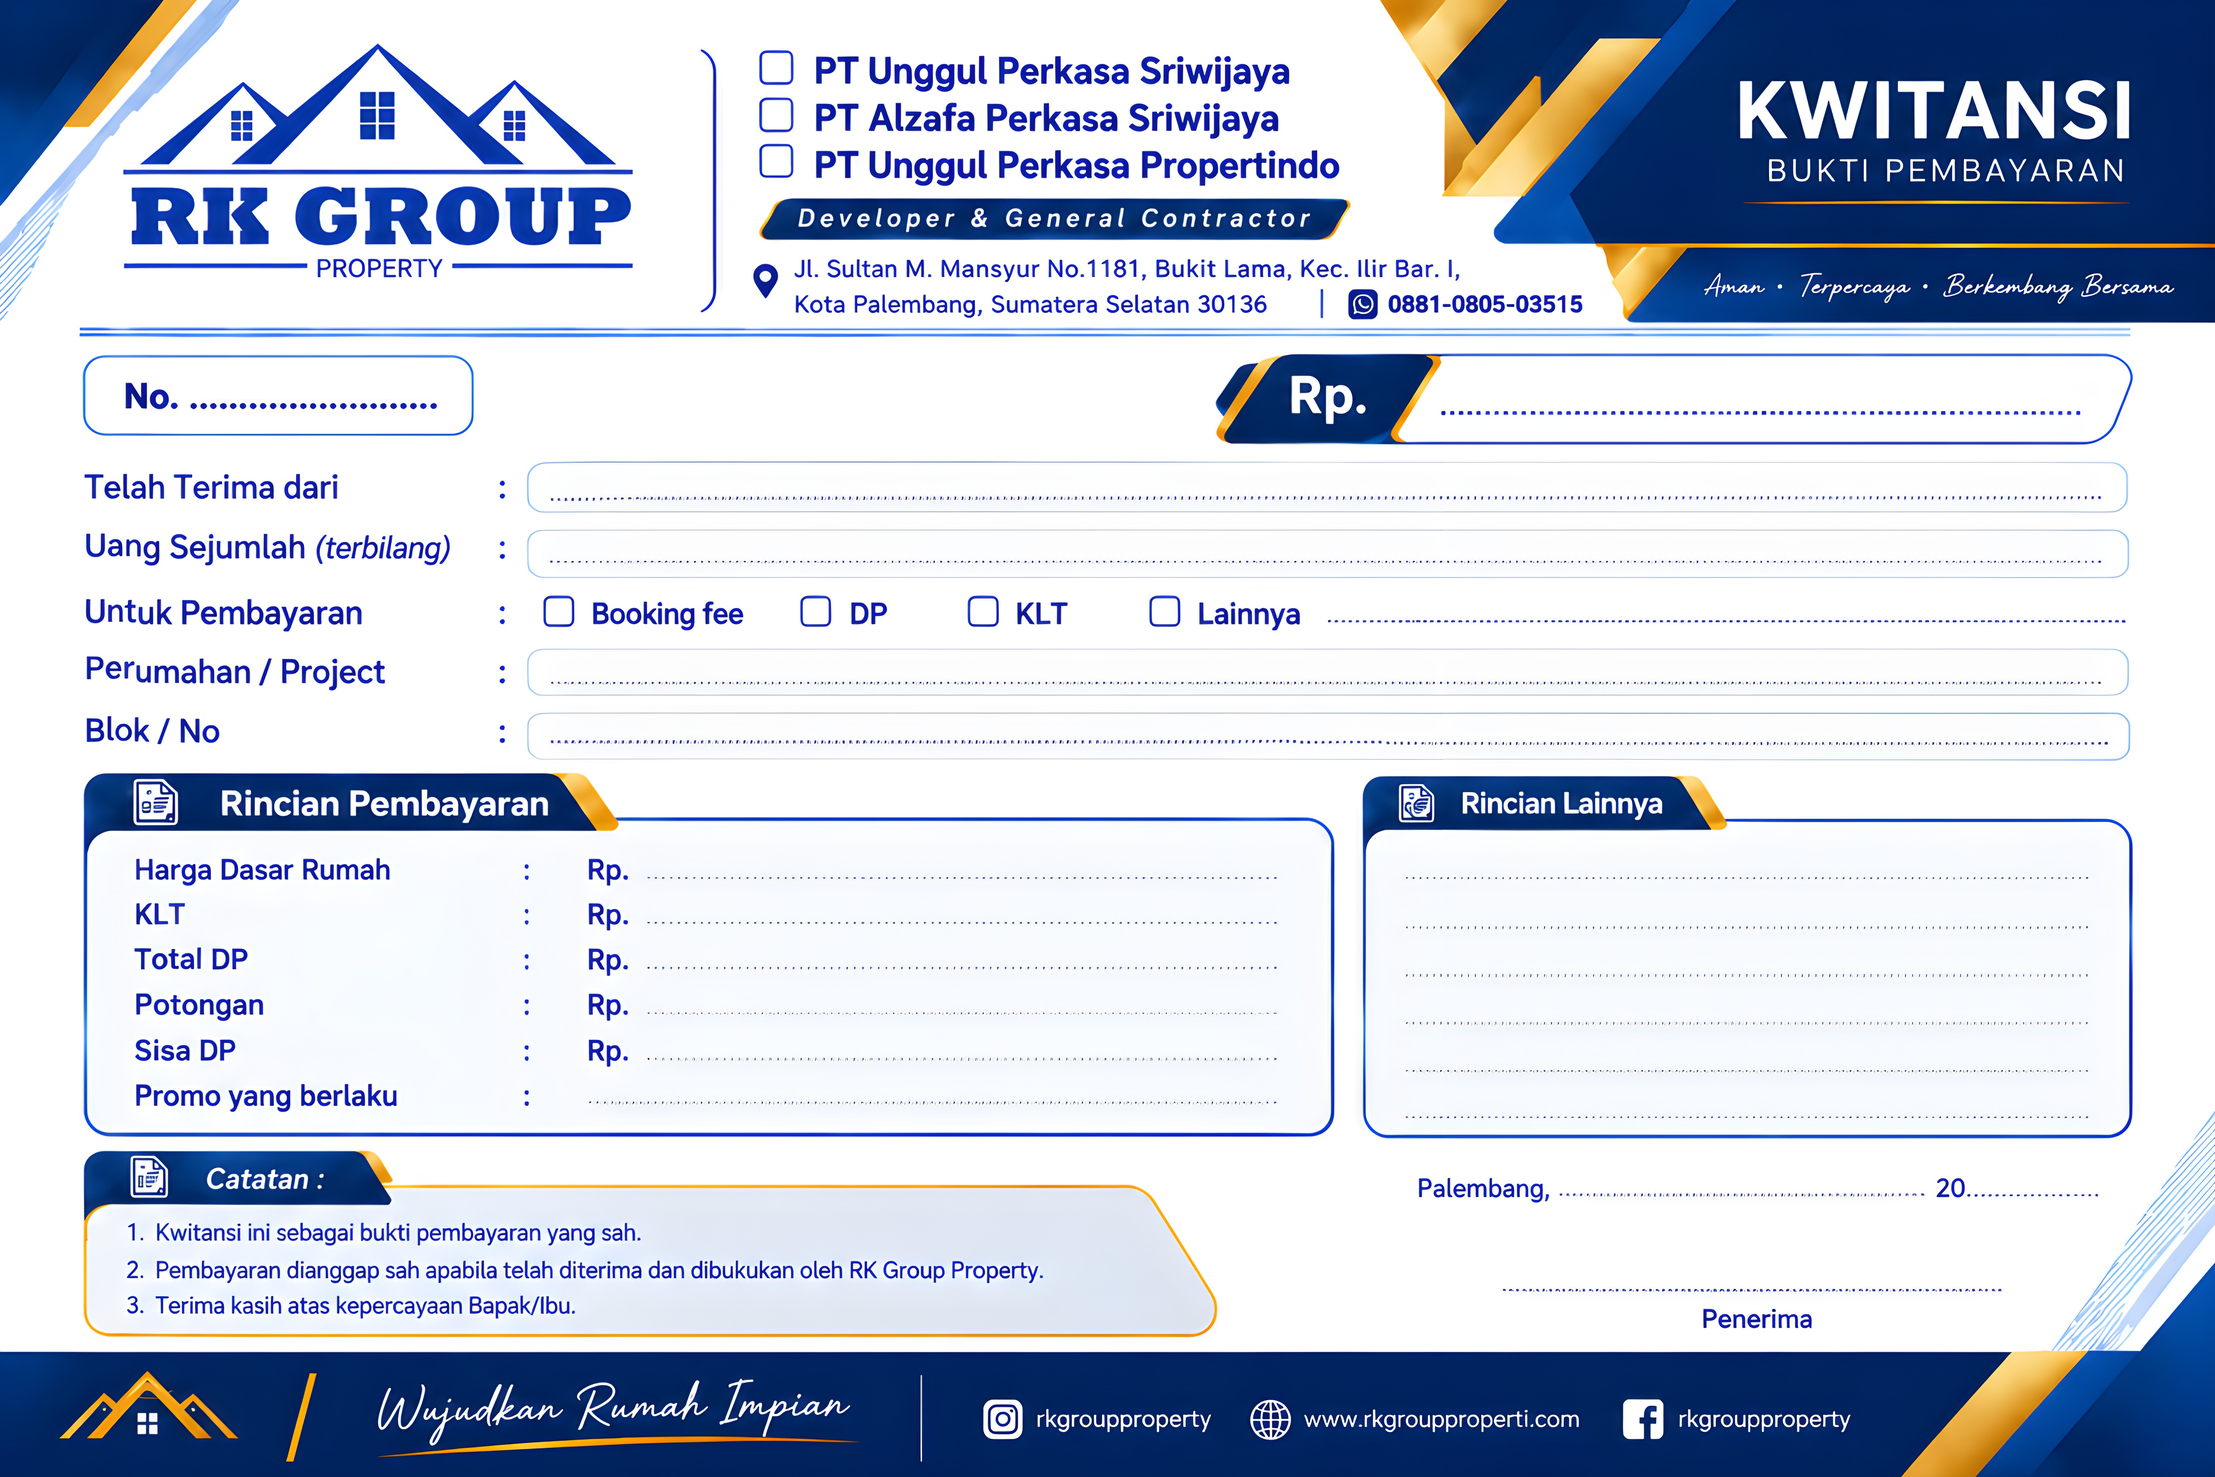
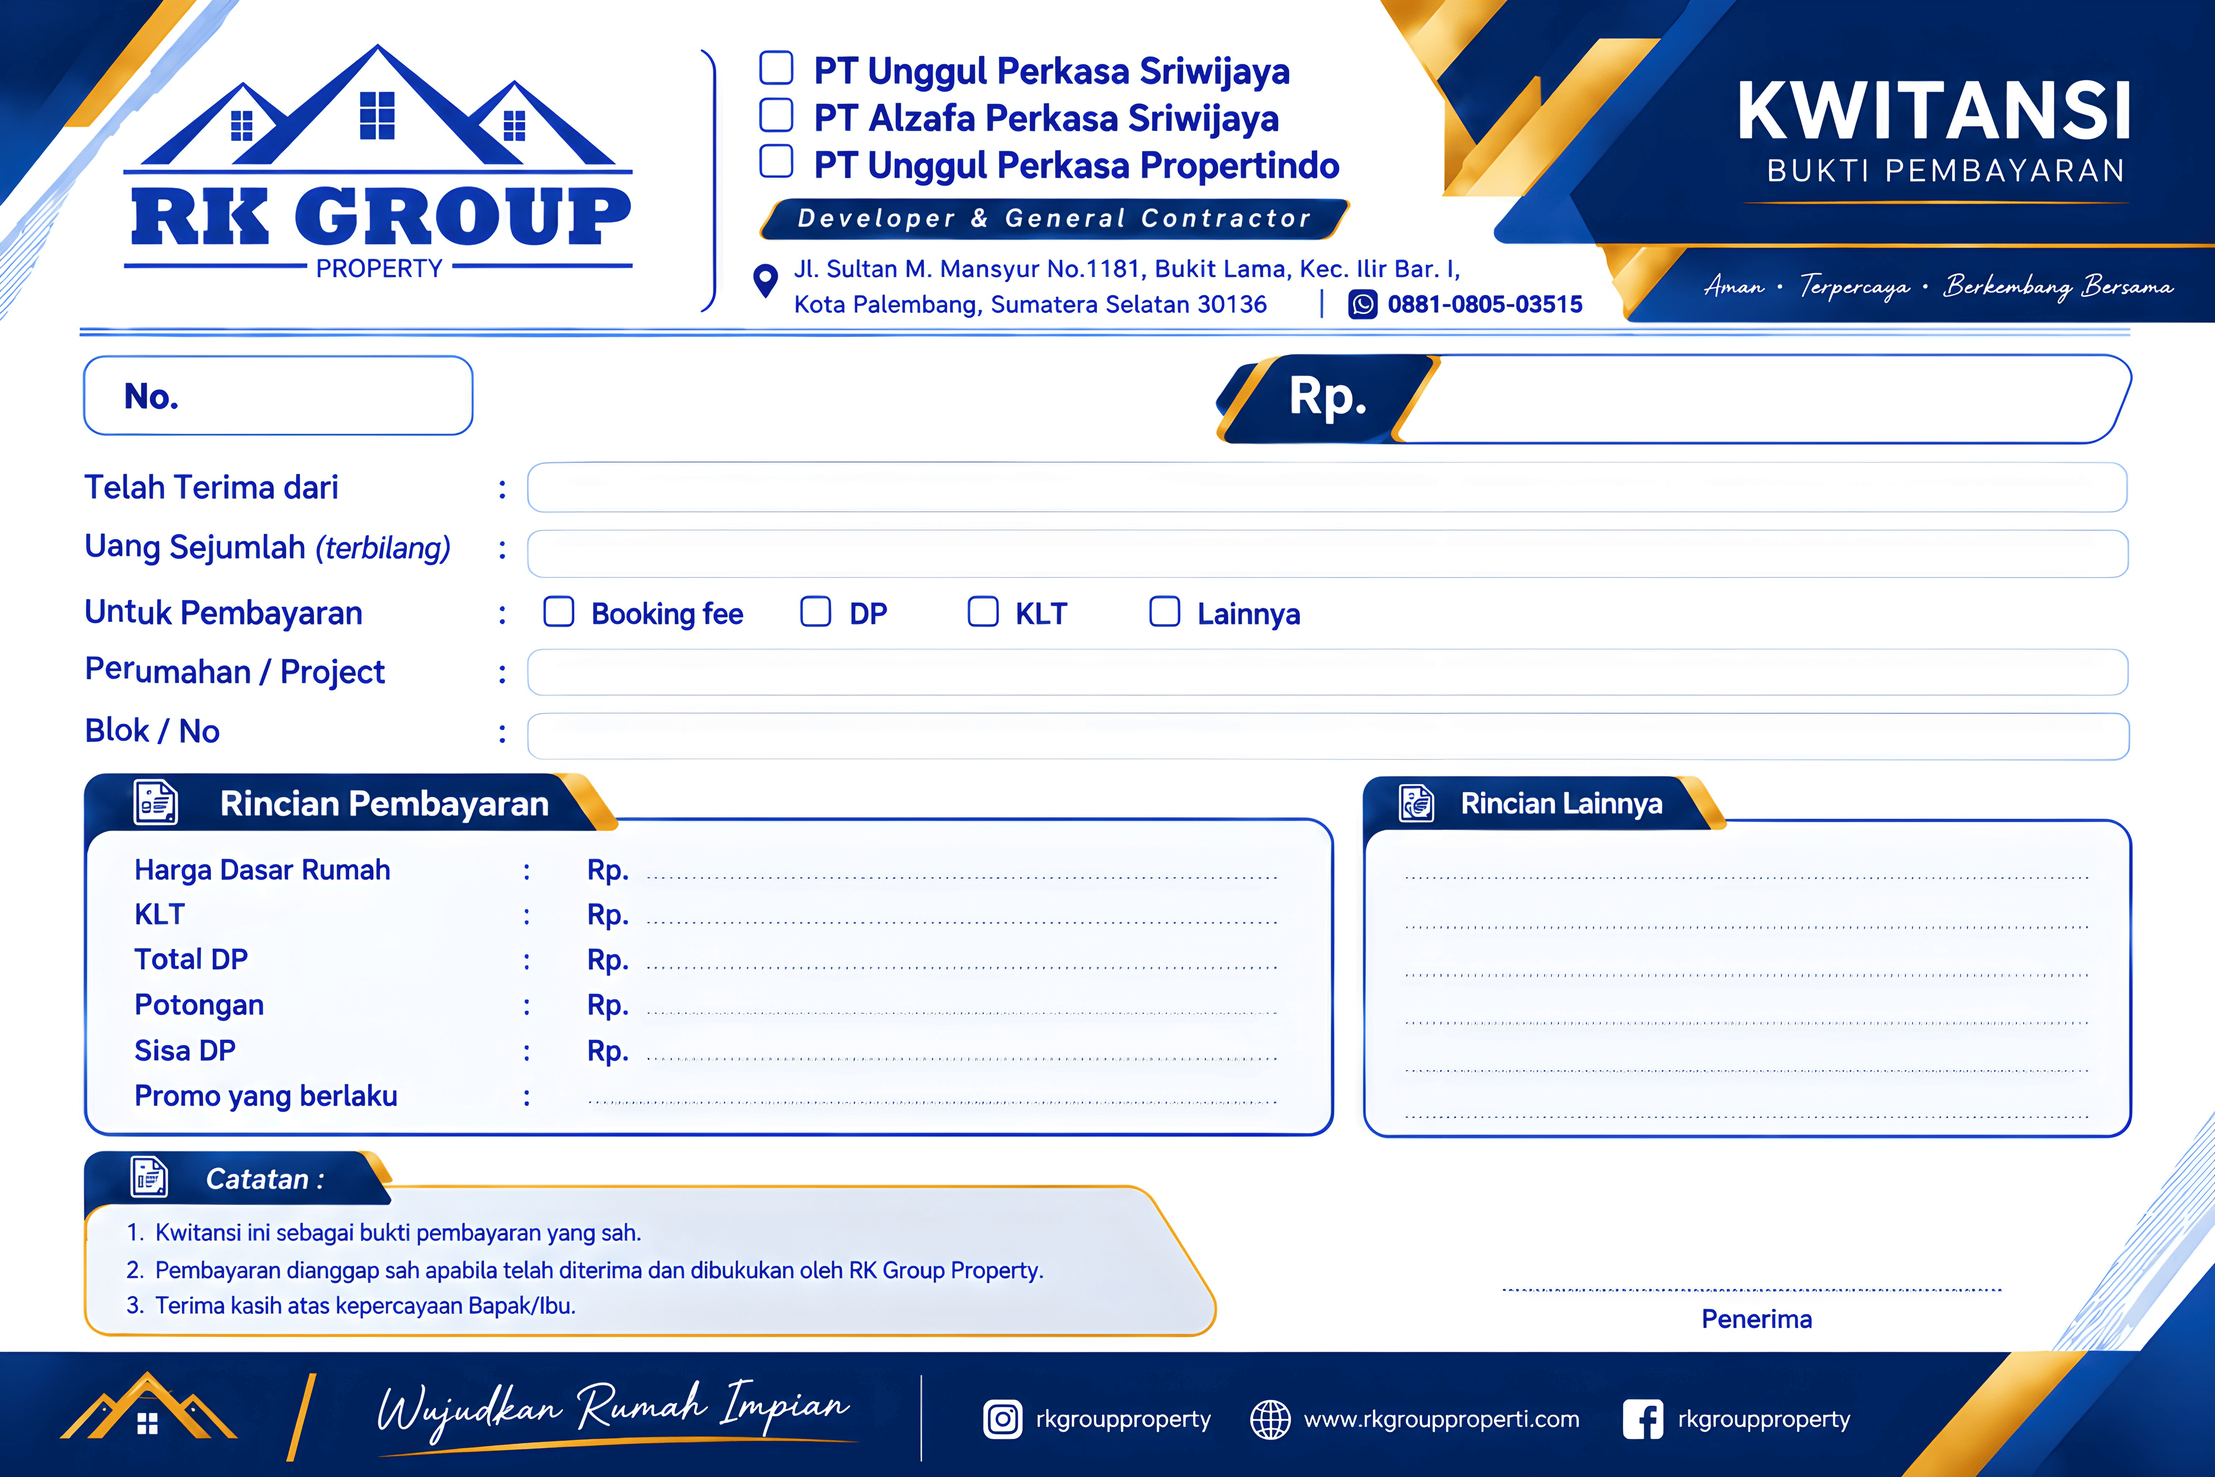
fix(beranda,kwitansi,kavling): update tanggal dynamic, layout kwitansi, dan sync rincian biaya per lokasi
- beranda: tanggal dynamic pakai Carbon Asia/Jakarta, icon kalender dihapus, notif tambah Swal
- kwitansi: prioritas bg png dulu, font terbilang non-italic, rincian layout pakai MultiCell, tanggal format D MMMM Y 4 digit
- kavling: sync rincian biaya update_semua hanya berlaku se-lokasi yang sama

diff --git a/app/Http/Controllers/PembayaranController.php b/app/Http/Controllers/PembayaranController.php
@@ -392,163 +392,6 @@ class PembayaranController extends Controller
         exit;
     }
 
-    // public function cetak($id)
-    // {
-    //     $pembayaran = Pemasukan::with(['customer', 'metode', 'kategori'])->where('id', $id)
-    //         ->where('keterangan', 'NOT LIKE', 'Biaya ganti nama%')
-    //         ->firstOrFail();
-    //     $nasabah = $pembayaran->customer;
-
-    //     $alamatNasabah = $nasabah->alamat ?? $nasabah->alamat_ktp ?? $nasabah->alamat_domisili ?? '-';
-
-    //     $lokasi = LokasiKavling::where('id', $nasabah->id_lokasi)->first();
-    //     $namaKavling = $lokasi->nama_kavling ?? '-';
-
-    //     $kavling = KavlingPeta::with('perusahaan')->where('id', $nasabah->id_kavling)->first();
-    //     $dataPerusahaan = $kavling->perusahaan;
-
-    //     $blokNomor = '-';
-    //     if ($lokasi) {
-    //         if ($lokasi->is_cluster) {
-    //             $blokNomor = ($kavling->cluster ?? '-') . '-' . ($kavling->no ?? '-');
-    //         } else {
-    //             $blokNomor = $kavling->kode_kavling ?? '-';
-    //         }
-    //     }
-
-    //     $templatePath = public_path('templates/kwitansi.pdf');
-    //     $checkIcon = public_path('check-solid.png');
-    //     $checkSize = 5;
-
-    //     $pdf = new Fpdi('P', 'mm', 'A4', true, 'UTF-8', false);
-    //     $pdf->SetTitle('Kwitansi - ' . ($pembayaran->no_kwitansi ?? '-'));
-    //     $pdf->SetAuthor('GIA Group');
-    //     $pdf->SetPrintHeader(false);
-    //     $pdf->SetPrintFooter(false);
-    //     $pdf->SetMargins(0, 0, 0);
-    //     $pdf->SetAutoPageBreak(false, 0);
-
-    //     $pdf->setSourceFile($templatePath);
-    //     $tplId = $pdf->importPage(1);
-
-    //     $pdf->AddPage();
-    //     $pdf->useTemplate($tplId, 0, 0, 210, 297);
-
-    //     $pdf->SetFont('Times', '', 14);
-    //     $pdf->SetTextColor(0, 0, 0);
-
-    //     $pt = 25.4 / 72;
-
-    //     $pdf->SetXY(470 * $pt, 100 * $pt);
-    //     $pdf->Cell(40, 6, $pembayaran->no_kwitansi ?? '-', 0, 0, 'L');
-
-    //     // nominal Bayar
-    //     $pdf->SetFont('Times', 'B', 13);
-    //     $pdf->SetXY(80 * $pt, 133 * $pt);
-    //     $pdf->Cell(80, 6, number_format($pembayaran->nominal, 0, ',', '.'), 0, 0, 'L');
-
-    //     $pdf->SetFont('Times', 'I', 13);
-    //     $pdf->SetXY(200 * $pt, 133 * $pt);
-    //     $pdf->Cell(200, 6, $this->terbilang($pembayaran->nominal) . ' Rupiah', 0, 0, 'L');
-
-    //     // Centang Pembayaran
-    //     $namaKategori = strtoupper($pembayaran->kategori->kategori ?? '-');
-    //     $isBookingFee = str_contains($namaKategori, 'BOOKING FEE');
-    //     $isUangMuka = str_contains($namaKategori, 'DP') || str_contains($namaKategori, 'UANG MUKA');
-    //     $isSertifikat = str_contains($namaKategori, 'SERTIFIKAT');
-
-    //     if ($isBookingFee) {
-    //         if (file_exists($checkIcon)) {
-    //             $pdf->Image($checkIcon, 42 * $pt, 174 * $pt, $checkSize);
-    //         }
-    //         $pdf->SetFont('Times', 'I', 12);
-    //         $keteranganKategori = $pembayaran->keterangan_kategori ?? '';
-    //         $labelLain = $pembayaran->kategori->kategori ?? '-';
-    //         if ($keteranganKategori !== '') {
-    //             $labelLain = $keteranganKategori;
-    //         }
-    //         $pdf->SetXY(130 * $pt, 174 * $pt);
-    //         $pdf->Cell(100, 5, $labelLain, 0, 0, 'L');
-    //     } elseif ($isUangMuka) {
-    //         if (file_exists($checkIcon)) {
-    //             $pdf->Image($checkIcon, 42 * $pt, 192 * $pt, $checkSize);
-    //         }
-    //         $pdf->SetFont('Times', 'I', 12);
-    //         $keteranganKategori = $pembayaran->keterangan_kategori ?? '';
-    //         $labelLain = $pembayaran->kategori->kategori ?? '-';
-    //         if ($keteranganKategori !== '') {
-    //             $labelLain = $keteranganKategori;
-    //         }
-    //         $pdf->SetXY(130 * $pt, 192 * $pt);
-    //         $pdf->Cell(100, 5, $labelLain, 0, 0, 'L');
-    //     } elseif ($isSertifikat) {
-    //         if (file_exists($checkIcon)) {
-    //             $pdf->Image($checkIcon, 301 * $pt, 174 * $pt, $checkSize);
-    //         }
-    //         $pdf->SetFont('Times', 'I', 12);
-    //         $keteranganKategori = $pembayaran->keterangan_kategori ?? '';
-    //         $labelLain = $pembayaran->kategori->kategori ?? '-';
-    //         if ($keteranganKategori !== '') {
-    //             $labelLain = $keteranganKategori;
-    //         }
-    //         $pdf->SetXY(410 * $pt, 174 * $pt);
-    //         $pdf->Cell(100, 5, $labelLain, 0, 0, 'L');
-    //     } else {
-    //         if (file_exists($checkIcon)) {
-    //             $pdf->Image($checkIcon, 301 * $pt, 192 * $pt, $checkSize);
-    //         }
-    //         $pdf->SetFont('Times', 'I', 12);
-    //         $keteranganKategori = $pembayaran->keterangan_kategori ?? '';
-    //         $labelLain = $pembayaran->kategori->kategori ?? '-';
-    //         if ($keteranganKategori !== '') {
-    //             $labelLain = $keteranganKategori;
-    //         }
-    //         $pdf->SetXY(410 * $pt, 192 * $pt);
-    //         $pdf->Cell(100, 5, $labelLain, 0, 0, 'L');
-    //     }
-
-
-
-
-
-
-
-    //     // Nama Kavling
-    //     $pdf->SetXY(140 * $pt, 214 * $pt);
-    //     $pdf->Cell(80, 6, $namaKavling, 0, 0, 'C');
-
-    //     $pdf->SetXY(150 * $pt, 232 * $pt);
-    //     $pdf->Cell(150, 6, $nasabah->nama_lengkap ?? '-', 0, 0, 'L');
-
-    //     $pdf->SetXY(150 * $pt, 251 * $pt);
-    //     $pdf->Cell(200, 6, $alamatNasabah, 0, 0, 'L');
-
-
-
-
-    //     $totalHarga = Piutang::where('id_customer', $nasabah->id)->sum('nominal');
-    //     $pdf->SetXY(150 * $pt, 291 * $pt);
-    //     $pdf->Cell(100, 6, number_format($totalHarga, 0, ',', '.'), 0, 0, 'L');
-
-    //     $pdf->SetXY(150 * $pt, 310 * $pt);
-    //     $pdf->Cell(100, 6, $kavling->tipe_bangunan ?? '-', 0, 0, 'L');
-
-    //     $pdf->SetXY(150 * $pt, 329 * $pt);
-    //     $pdf->Cell(100, 6, $blokNomor, 0, 0, 'L');
-
-
-    //     $tanggalFormatted = Carbon::parse($pembayaran->tanggal)->translatedFormat('d F Y');
-    //     // $pdf->SetFont('Times', '', 9);
-    //     $pdf->SetXY(462 * $pt, 353 * $pt);
-    //     $pdf->Cell(60, 6, $tanggalFormatted, 0, 0, 'L');
-
-    //     $pdf->Output('Kwitansi_' . ($pembayaran->no_kwitansi ?? 'draft') . '.pdf', 'I');
-    //     exit;
-    // }
-
-
-
-
     public function cetak($id)
     {
         $pembayaran = Pemasukan::with(['customer.lokasi', 'customer.kavling', 'customer.piutangs.kategori', 'metode', 'kategori'])
@@ -604,9 +447,9 @@ class PembayaranController extends Controller
         $pdf->setPrintFooter(false);
         $pdf->AddPage('L', $pageFormat);
 
-        $bgPath = file_exists(public_path('assets/img/bg-kwitansi.jpg'))
-            ? public_path('assets/img/bg-kwitansi.jpg')
-            : (file_exists(public_path('assets/img/bg-kwitansi.png')) ? public_path('assets/img/bg-kwitansi.png') : public_path('assets/img/kop-kwitansi.jpg'));
+        $bgPath = file_exists(public_path('assets/img/bg-kwitansi.png'))
+            ? public_path('assets/img/bg-kwitansi.png')
+            : (file_exists(public_path('assets/img/bg-kwitansi.jpg')) ? public_path('assets/img/bg-kwitansi.jpg') : public_path('assets/img/kop-kwitansi.jpg'));
 
         if (file_exists($bgPath)) {
             $pdf->Image($bgPath, 0, 0, 210, 140, '', '', '', false, 300);
@@ -633,23 +476,23 @@ class PembayaranController extends Controller
         // 2. Nomor Kwitansi
         $pdf->SetFont('helvetica', 'B', 9.5);
         $pdf->SetTextColor(20, 20, 20);
-        $pdf->SetXY(25.0, 35);
+        $pdf->SetXY(16.7, 35.3);
         $pdf->Cell(20, 4.5, $pembayaran->no_kwitansi ?? '-', 0, 0, 'L');
 
         // 3. Nominal Rp
         $pdf->SetFont('helvetica', 'B', 11);
         $pdf->SetTextColor(20, 20, 20);
-        $pdf->SetXY(136.0, 34.8);
+        $pdf->SetXY(136.0, 35.5);
         $pdf->Cell(56, 5, number_format($pembayaran->nominal, 0, ',', '.') . '', 0, 0, 'L');
 
         // 4. Telah Terima dari
-        $pdf->SetFont('helvetica', 'B', 9);
-        $pdf->SetXY(52.0, 44.1);
+        $pdf->SetFont('helvetica', '', 9);
+        $pdf->SetXY(51, 44.1);
         $pdf->Cell(147, 4.5, strtoupper($nasabah->nama_lengkap ?? '-'), 0, 0, 'L');
 
         // 5. Uang Sejumlah (terbilang)
-        $pdf->SetFont('helvetica', 'I', 8.5);
-        $pdf->SetXY(52.0, 50.5);
+        $pdf->SetFont('helvetica', '', 9);
+        $pdf->SetXY(51, 50.3);
         $pdf->Cell(147, 4.5, '' . ucwords(trim($this->terbilang($pembayaran->nominal))) . ' Rupiah', 0, 0, 'L');
 
         // 6. Untuk Pembayaran (Checkbox & Label)
@@ -672,54 +515,60 @@ class PembayaranController extends Controller
 
         // 7. Perumahan / Project
         $pdf->SetFont('helvetica', '', 9);
-        $pdf->SetXY(52.0, 61.5);
+        $pdf->SetXY(51, 61.5);
         $pdf->Cell(147, 4.5, $lokasi->nama_kavling ?? '-', 0, 0, 'L');
 
         // 8. Blok / No
-        $pdf->SetFont('helvetica', 'B', 9);
-        $pdf->SetXY(52.0, 67.5);
+        $pdf->SetFont('helvetica', '', 9);
+        $pdf->SetXY(51, 67.5);
         $pdf->Cell(147, 4.5, $blokNomor, 0, 0, 'L');
 
         // 9. Rincian Pembayaran (Kotak Kiri)
         $pdf->SetFont('helvetica', '', 8.5);
-        $pdf->SetXY(64.0, 82.4);
+        $pdf->SetXY(60, 79.3);
         $pdf->Cell(57, 4.2, $hargaDasar > 0 ? number_format($hargaDasar, 0, ',', '.') : '-', 0, 0, 'L');
 
-        $pdf->SetXY(64.0, 86.8);
+        $pdf->SetXY(60, 83.7);
         $pdf->Cell(57, 4.2, $klt > 0 ? number_format($klt, 0, ',', '.') : '-', 0, 0, 'L');
 
-        $pdf->SetXY(64.0, 91.2);
+        $pdf->SetXY(60, 88.1);
         $pdf->Cell(57, 4.2, $totalDp > 0 ? number_format($totalDp, 0, ',', '.') : '-', 0, 0, 'L');
 
-        $pdf->SetXY(64.0, 95.6);
+        $pdf->SetXY(60, 92.5);
         $pdf->Cell(57, 4.2, $potongan > 0 ? number_format($potongan, 0, ',', '.') : '-', 0, 0, 'L');
 
-        $pdf->SetXY(64.0, 100.0);
+        $pdf->SetXY(60, 96.9);
         $pdf->Cell(57, 4.2, $sisaDp > 0 ? number_format($sisaDp, 0, ',', '.') : ($totalDp > 0 ? '0' : '-'), 0, 0, 'L');
 
-        $pdf->SetXY(53.0, 104.4);
+        $pdf->SetXY(56.0, 101.3);
         $pdf->Cell(68, 4.2, $promo ?: '-', 0, 0, 'L');
 
         // 10. Rincian Lainnya (Kotak Kanan)
-        $rincianLainnya = [];
-        $rincianLainnya[] = "Metode Pembayaran : " . strtoupper($pembayaran->metode->jenis_bayar ?? 'CASH');
-        if (!empty($pembayaran->keterangan)) {
-            $rincianLainnya[] = "Keterangan : " . $pembayaran->keterangan;
-        }
-        if (!empty($pembayaran->keterangan_kategori)) {
-            $rincianLainnya[] = "Keterangan Kategori : " . $pembayaran->keterangan_kategori;
-        }
         $pdf->SetFont('helvetica', '', 8);
-        $pdf->SetXY(132.0, 82.5);
-        $pdf->MultiCell(66, 4.3, implode("\n", $rincianLainnya), 0, 'L');
+        $pdf->setCellHeightRatio(1.5);
+        $currentY = 79.4;
+
+        $pdf->SetXY(132.0, $currentY);
+        $pdf->MultiCell(66, 4.3, "Metode Pembayaran : " . strtoupper($pembayaran->metode->jenis_bayar ?? 'CASH'), 0, 'L');
+
+        if (!empty($pembayaran->keterangan)) {
+            $currentY = $pdf->GetY() + 0.5;
+            $pdf->SetXY(132.0, $currentY);
+            $pdf->MultiCell(70, 4.3, "Keterangan : " . $pembayaran->keterangan, 0, 'L');
+        }
+
+        if (!empty($pembayaran->keterangan_kategori)) {
+            $currentY = $pdf->GetY() + 0.5;
+            $pdf->SetXY(132.0, $currentY);
+            $pdf->MultiCell(70, 4.3, "Keterangan Kategori : " . $pembayaran->keterangan_kategori, 0, 'L');
+        }
+        $pdf->setCellHeightRatio(1.25);
 
         // 11. Palembang, Tanggal
         $tglCarbon = Carbon::parse($pembayaran->tanggal)->locale('id');
         $pdf->SetFont('helvetica', '', 7);
-        $pdf->SetXY(169.0, 110.5);
-        $pdf->Cell(32, 4.5, $tglCarbon->isoFormat('D MMMM'), 0, 0, 'L');
-        $pdf->SetXY(185.5, 110.5);
-        $pdf->Cell(10, 4.5, $tglCarbon->format('y'), 0, 0, 'L');
+        $pdf->SetXY(169.0, 110.0);
+        $pdf->Cell(40, 4.5, $tglCarbon->isoFormat('D MMMM Y'), 0, 0, 'L');
 
         $filename = 'Kwitansi-' . ($pembayaran->no_kwitansi ?? 'draft') . '.pdf';
         $pdf->Output($filename, 'I');

diff --git a/resources/views/admin/beranda/index.blade.php b/resources/views/admin/beranda/index.blade.php
@@ -63,7 +63,7 @@
       justify-content: flex-end;
     }
 
-    .icon-btn, .date-btn, .filter-btn {
+    .icon-btn, .filter-btn {
       border: 1px solid var(--line);
       background: #fff;
       color: #374151;
@@ -76,6 +76,22 @@
       font-weight: 600;
       box-shadow: 0 5px 15px rgba(17,24,39,.04);
       cursor: pointer;
+    }
+
+    .date-btn {
+      border: 1px solid var(--line);
+      background: #fff;
+      color: #374151;
+      border-radius: 12px;
+      min-height: 42px;
+      padding: 0 14px;
+      display: inline-flex;
+      align-items: center;
+      gap: 9px;
+      font-weight: 600;
+      box-shadow: 0 5px 15px rgba(17,24,39,.04);
+      cursor: default !important;
+      pointer-events: none;
     }
 
     .icon-btn { width: 42px; justify-content: center; padding: 0; }
@@ -568,9 +584,8 @@
         </div>
 
         <div class="top-actions">
-          <button class="icon-btn"><i class="fa-regular fa-bell"></i></button>
-          <button class="icon-btn"><i class="fa-regular fa-calendar"></i></button>
-          <button class="date-btn"><i class="fa-regular fa-calendar-days"></i> 26 Juli 2026</button>
+          <button class="icon-btn" onclick="Swal.fire('Notifikasi', 'Tidak ada notifikasi baru', 'info')"><i class="fa-regular fa-bell"></i></button>
+          <button class="date-btn"><i class="fa-regular fa-calendar-days"></i> {{ Carbon\Carbon::now('Asia/Jakarta')->translatedFormat('d F Y') }}</button>
         </div>
       </header>
 

diff --git a/app/Http/Controllers/Master/KavlingController.php b/app/Http/Controllers/Master/KavlingController.php
@@ -270,8 +270,11 @@ class KavlingController extends Controller
 
         $submittedByName = collect($submittedRincian)
             ->keyBy('nama');
+        
+        $editedKavling = KavlingPeta::findOrFail($editedId);
 
-        KavlingPeta::select('id', 'rincian_biaya')
+        KavlingPeta::where('id_lokasi', $editedKavling->id_lokasi)
+            ->select('id', 'rincian_biaya')
             ->orderBy('id')
             ->chunkById(100, function ($kavlings) use ($editedId, $submittedByName, $deletedNames) {
                 foreach ($kavlings as $kavling) {
